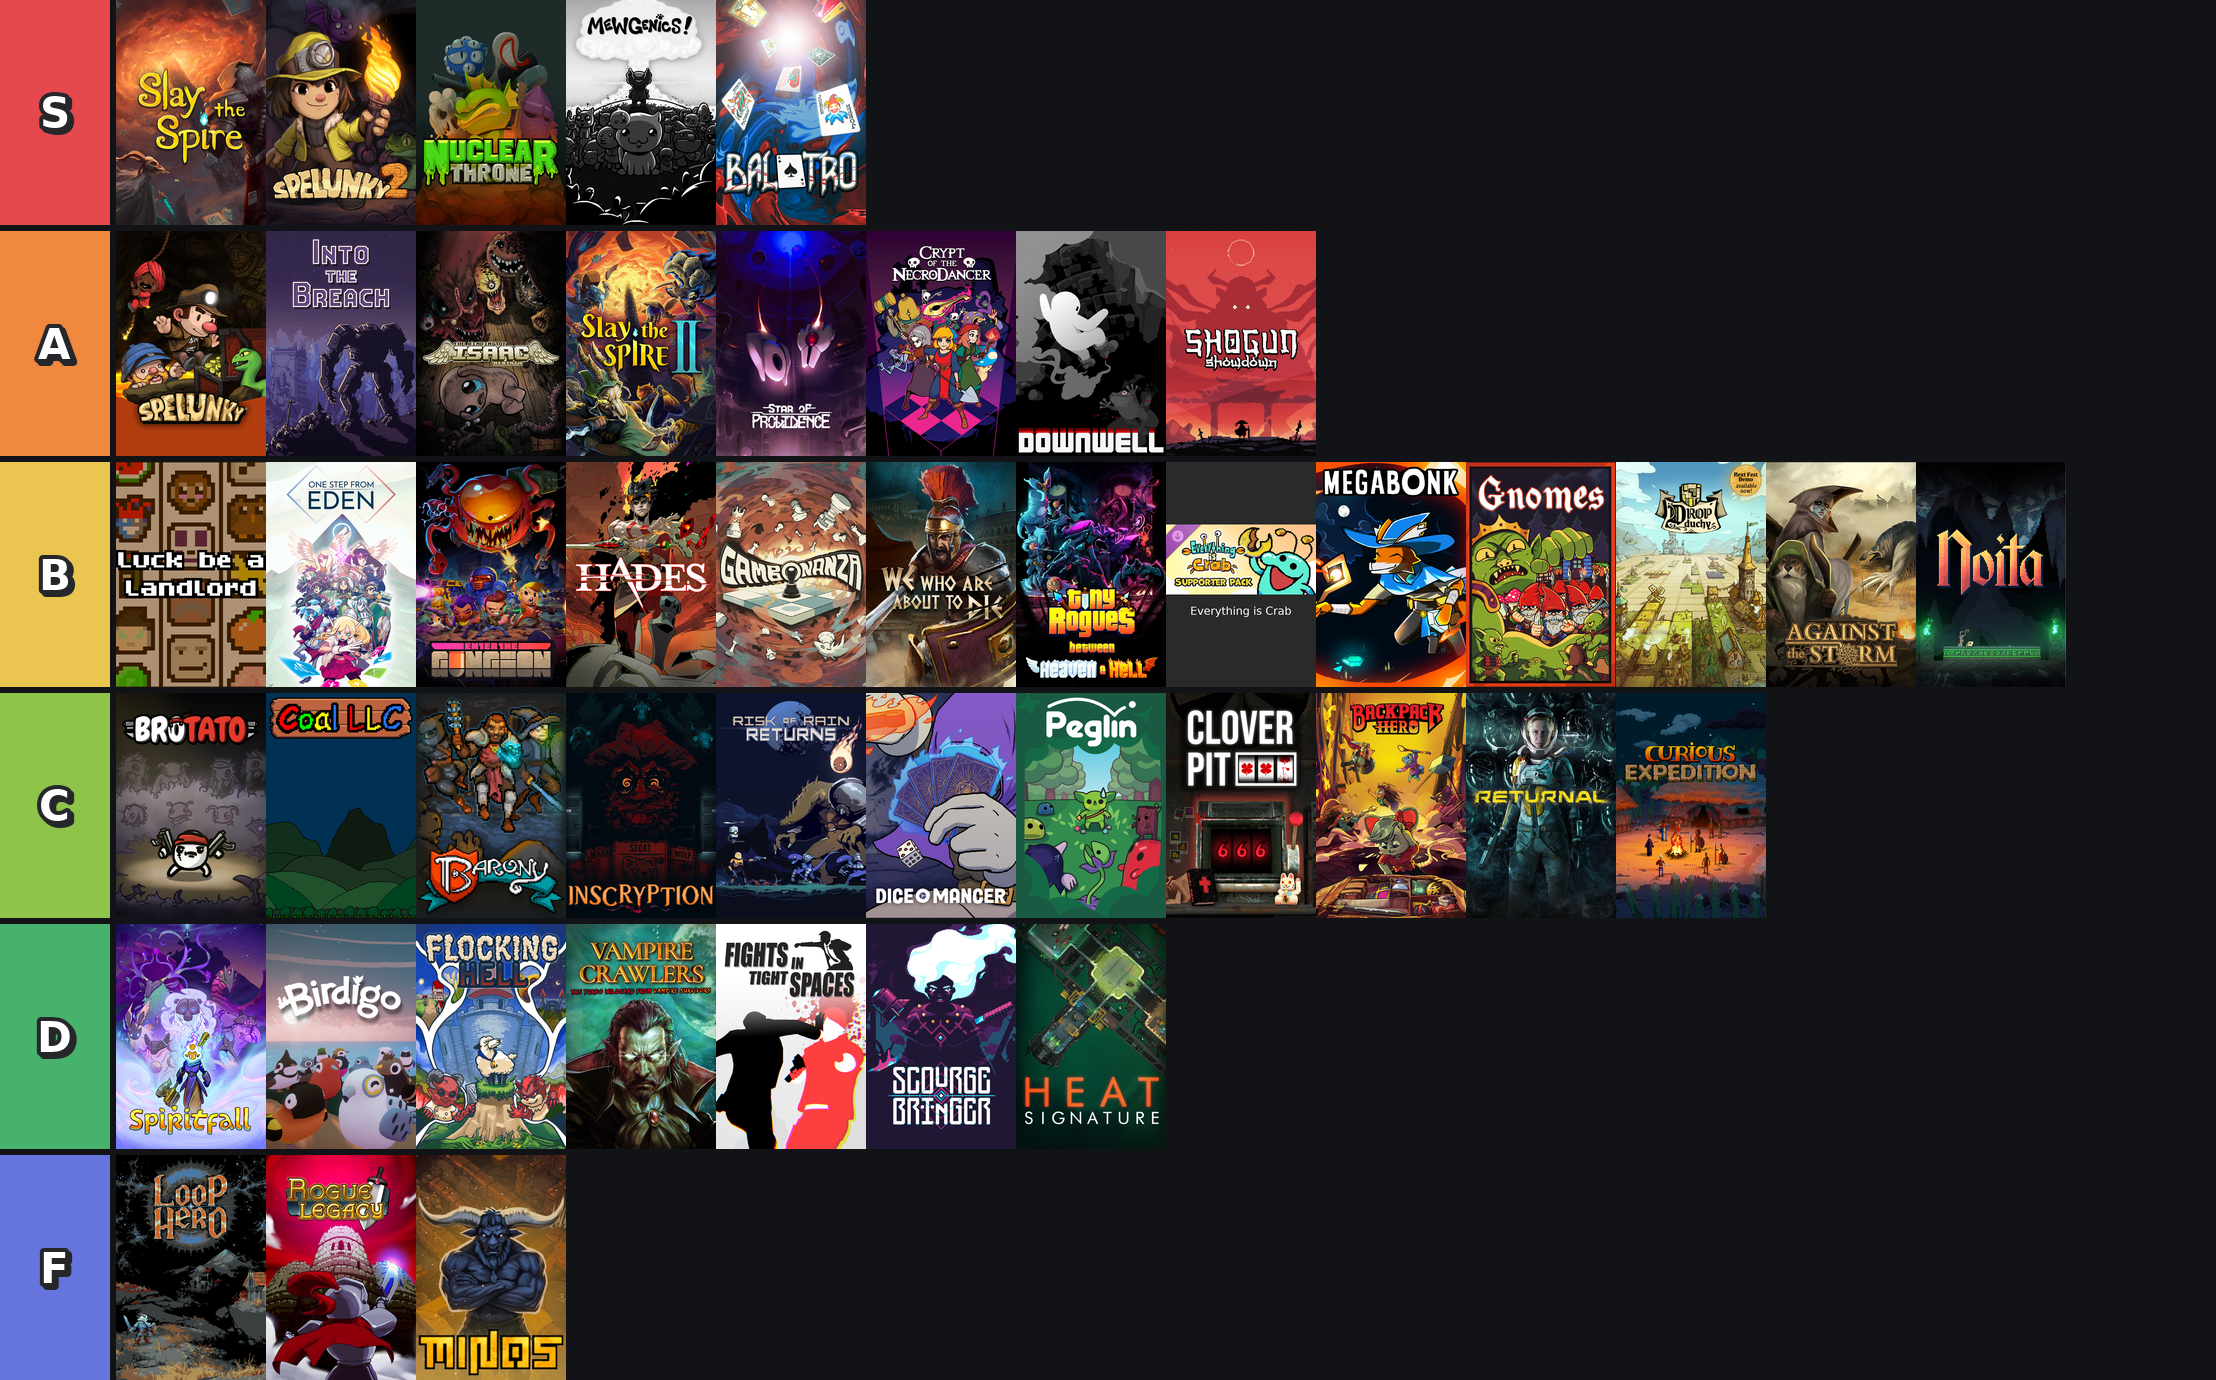
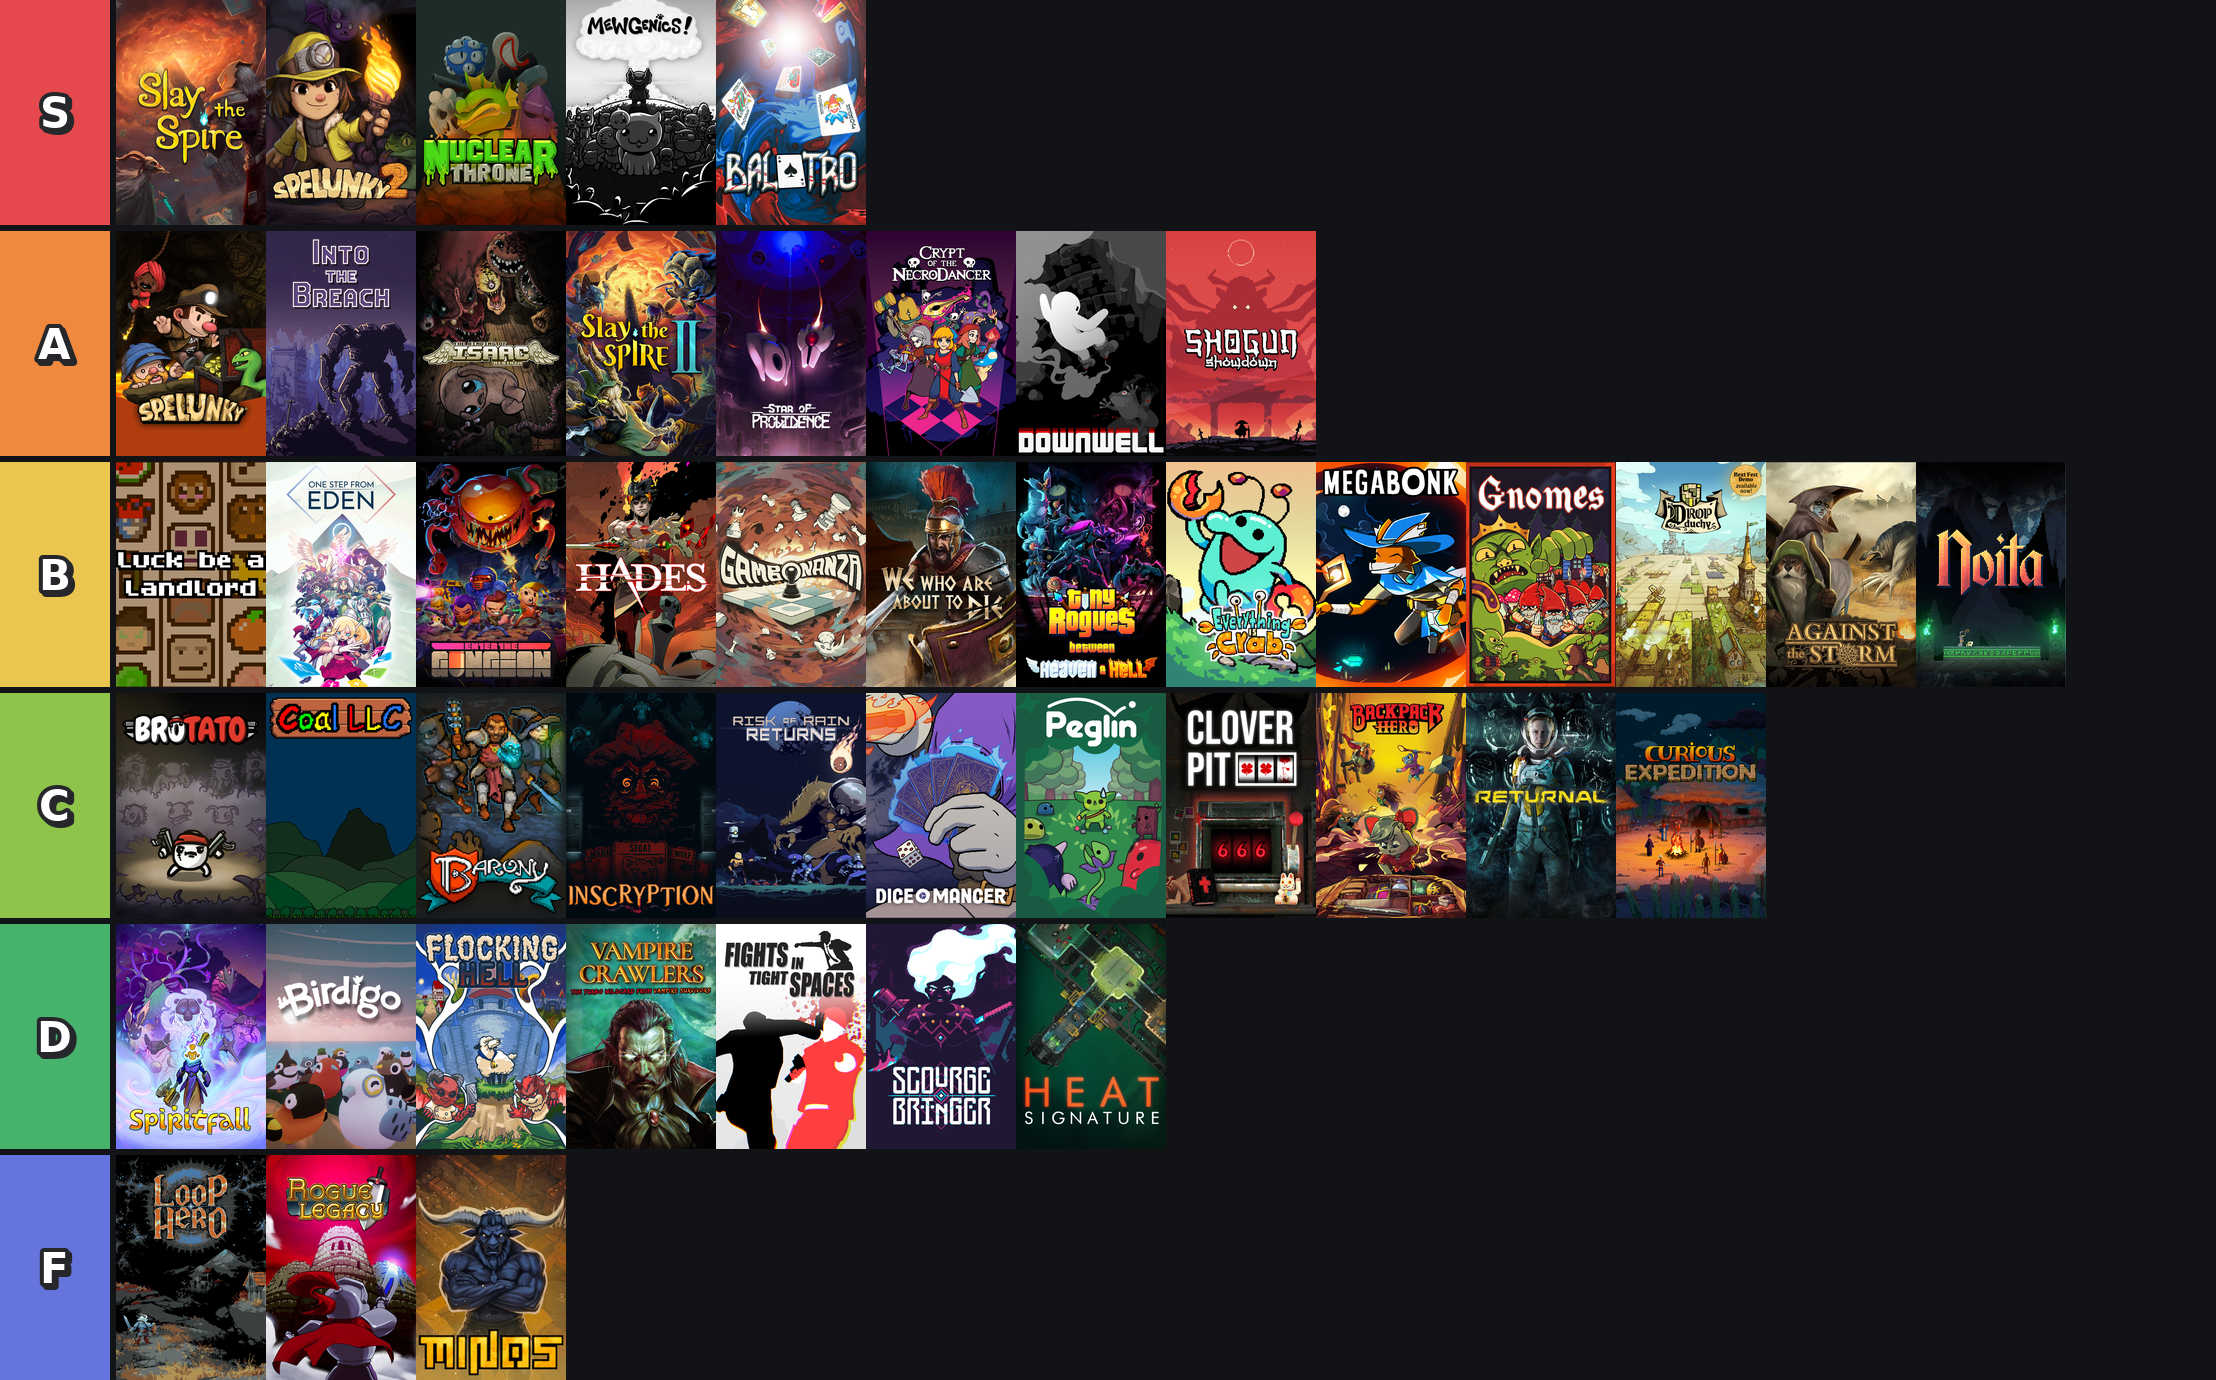
Fix Everything is Crab tile: pin base game, not Supporter Pack DLC
Steam search ranked the "Everything is Crab - Supporter Pack" DLC
(app 4540950) above the base game because its title is closer in length
to the search term. The DLC has no vertical library capsule, so the
generator composed a horizontal-header fallback tile instead of the
vertical capsule.

- Add "everything is crab" -> 3526710 to steam_id_overrides
- Add "supporter pack" to NON_GAME_TOKENS so DLC packs get demoted
- Correct cached app id in game_ids.json
- Replace wrong horizontal DLC header with base-game 600x900 capsule
- Regenerate public/tierlist.png

Changed region(s): [[0.5293, 0.3116, 0.5916, 0.4986]]

diff --git a/scripts/tier_list_generator.py b/scripts/tier_list_generator.py
@@ -46,6 +46,9 @@ class TierListGenerator:
         # Maps: lowercase game name -> Steam App ID
         self.steam_id_overrides = {
             "vampire crawlers": 3265700,
+            # Steam search ranked the "Supporter Pack" DLC above the base game
+            # (closer title length); pin the base game's app ID.
+            "everything is crab": 3526710,
         }
 
         # Saturated take on the TierMaker palette (white letters on top)
@@ -153,7 +156,7 @@ class TierListGenerator:
 
     # Store entries that are not the game itself
     NON_GAME_TOKENS = ('soundtrack', 'ost', 'demo', 'playtest', 'dlc',
-                       'bundle', 'artbook', 'art book', 'beta')
+                       'bundle', 'artbook', 'art book', 'beta', 'supporter pack')
 
     def _normalize_name(self, name):
         """Normalize a game name for comparison: lowercase, strip trademark
